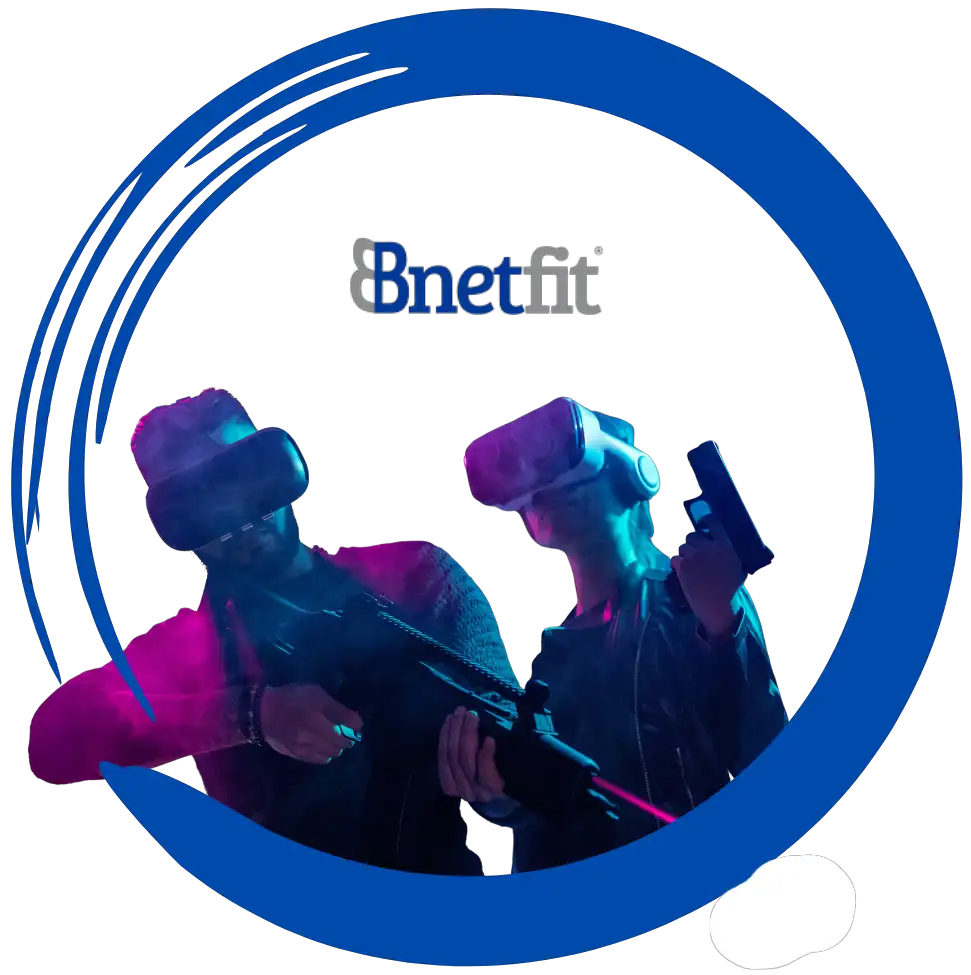
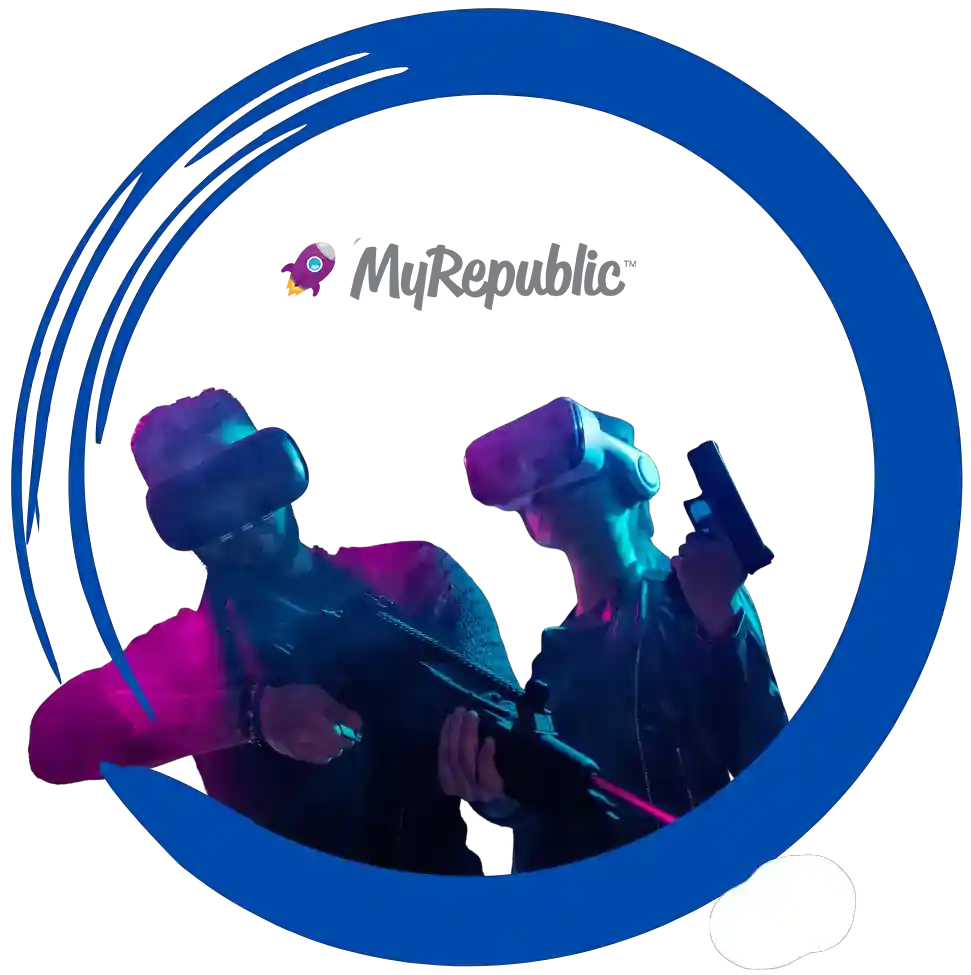
inisiasi myrep

diff --git a/components/Pricing.tsx b/components/Pricing.tsx
@@ -20,10 +20,10 @@ export default function Pricing() {
                                 className="imgpricing"
                             />
                             <div className="ml-5">
-                                <span className="spanpricing">Homelink 30</span>
+                                <span className="spanpricing">Fast 50</span>
                                 <span>
                                     <span className="spanrp">Rp&thinsp;</span>
-                                    <span className="spanhg">249rb </span>
+                                    <span className="spanhg">272rb </span>
                                 </span>
                                 <span className="spanbulan">/ bulan</span>
                             </div>
@@ -36,9 +36,7 @@ export default function Pricing() {
                                 />
                                 <span className="ml-3">
                                     Unlimited tanpa{" "}
-                                    <span className="text-black">
-                                        Kuota dan FUP
-                                    </span>
+                                    <span className="text-black">FUP</span>
                                 </span>
                             </li>
                             <li className="lipricing">
@@ -48,7 +46,7 @@ export default function Pricing() {
                                 />
                                 <span className="ml-3">
                                     Kecepatan optimal{" "}
-                                    <span className="text-black">30 Mpbs</span>
+                                    <span className="text-black">50 Mpbs</span>
                                 </span>
                             </li>
                             <li className="lipricing">
@@ -69,10 +67,8 @@ export default function Pricing() {
                                     alt="Serbu 20"
                                 />
                                 <span className="ml-3">
-                                    Biaya bulanan{" "}
-                                    <span className="text-black">
-                                        Selalu Flat
-                                    </span>{" "}
+                                    Upload dan Download{" "}
+                                    <span className="text-black">1 : 1</span>{" "}
                                 </span>
                             </li>
                         </ul>
@@ -97,11 +93,11 @@ export default function Pricing() {
                                 className="imgpricing"
                             />
                             <div className="ml-5">
-                                <span className="serbu10">Homelink 20</span>
+                                <span className="serbu10">Value 30</span>
                                 <span>
                                     <span className="rp10">Rp&thinsp;</span>
                                     <span className="spanhg text-white">
-                                        199rb{" "}
+                                        249rb{" "}
                                     </span>
                                 </span>
                                 <span className="font-medium">/ bulan</span>
@@ -115,9 +111,7 @@ export default function Pricing() {
                                 />
                                 <span className="ml-3">
                                     Unlimited tanpa{" "}
-                                    <span className="text-white">
-                                        Kuota dan FUP
-                                    </span>
+                                    <span className="text-white">FUP</span>
                                 </span>
                             </li>
                             <li className="lipricing">
@@ -127,7 +121,7 @@ export default function Pricing() {
                                 />
                                 <span className="ml-3">
                                     Kecepatan optimal{" "}
-                                    <span className="text-white">20 Mbps</span>
+                                    <span className="text-white">30 Mbps</span>
                                 </span>
                             </li>
                             <li className="flex mb-6">
@@ -148,11 +142,8 @@ export default function Pricing() {
                                     alt="Serbu 10"
                                 />
                                 <span className="ml-3">
-                                    Biaya bulanan{" "}
-                                    <span className="text-white">
-                                        {" "}
-                                        Selalu Flat
-                                    </span>{" "}
+                                    Upload dan Download{" "}
+                                    <span className="text-white">1 : 1</span>{" "}
                                 </span>
                             </li>
                         </ul>
@@ -177,10 +168,10 @@ export default function Pricing() {
                                 className="imgpricing"
                             />
                             <div className="ml-5">
-                                <span className="spanpricing">Homelink 50</span>
+                                <span className="spanpricing">Nova 100</span>
                                 <span>
                                     <span className="spanrp">Rp&thinsp;</span>
-                                    <span className="spanhg">290rb </span>
+                                    <span className="spanhg">391rb </span>
                                 </span>
                                 <span className="spanbulan">/ bulan</span>
                             </div>
@@ -193,9 +184,7 @@ export default function Pricing() {
                                 />
                                 <span className="ml-3">
                                     Unimited tanpa{" "}
-                                    <span className="text-black">
-                                        Kuota dan FUP
-                                    </span>
+                                    <span className="text-black">FUP</span>
                                 </span>
                             </li>
                             <li className="lipricing">
@@ -226,11 +215,8 @@ export default function Pricing() {
                                     alt="Serbu 30"
                                 />
                                 <span className="ml-3">
-                                    Biaya bulanan{" "}
-                                    <span className="text-white">
-                                        {" "}
-                                        Selalu Flat
-                                    </span>{" "}
+                                    Upload dan Download{" "}
+                                    <span className="text-black">1 : 1</span>{" "}
                                 </span>
                             </li>
                         </ul>

diff --git a/components/AboutSmall.tsx b/components/AboutSmall.tsx
@@ -8,14 +8,14 @@ export default function AboutSmall() {
                 <div className="div1about">
                     <div className="items-center gap-8 lg:grid lg:grid-cols-2 xl:gap-16">
                         <div className="text-gray-500 sm:text-lg">
-                            <h2 className="h2about">Wifi Bnetfit</h2>
+                            <h2 className="h2about">MyRepublic</h2>
                             <p className="mb-8 font-light lg:text-xl">
-                                Bnetfit hadir untuk memberikan solusi internet
-                                untuk keluarga indonesia dengan menawarkan
-                                pilihan harga terbaik yang didukung oleh
-                                komitmen kami dalam meningkatkan layanan
-                                jaringan untuk menghasilkan kualitas layanan
-                                internet yang lebih stabil.{" "}
+                                MyRepublic hadir untuk menjadi aset kebanggaan
+                                bangsa Indonesia dengan memberikan solusi
+                                internet dengan pilihan harga terbaik yang
+                                didukung oleh komitmen kami dalam meningkatkan
+                                layanan jaringan untuk menghasilkan kualitas
+                                layanan internet yang lebih stabil.{" "}
                             </p>
 
                             <ul role="list" className="ulabout">
@@ -74,7 +74,7 @@ export default function AboutSmall() {
                             <p className="font-light lg:text-xl">
                                 Nikmati kemudahan berlangganan dengan layanan
                                 kami. Konsultasikan kebutuhan internet anda
-                                dengan tenaga ahli dari Bnetfit dan dapatkan
+                                dengan tenaga ahli dari MyRepublic dan dapatkan
                                 promo menarik yang sesuai dengan kebutuhan anda.
                             </p>
                         </div>

diff --git a/components/Feature.tsx b/components/Feature.tsx
@@ -7,11 +7,11 @@ export default function Feature() {
             <section className="max-w-7xl mx-auto px-4 sm:px-6 lg:px-4 py-12">
                 <div className="text-center pb-12">
                     <h2 className="text-base font-bold text-indigo-600">
-                        Kenapa harus memilih Bnetfit?
+                        Kenapa harus memilih MyRepublic?
                     </h2>
                     <h1 className="font-bold text-3xl md:text-4xl lg:text-5xl font-heading text-gray-900">
                         Benefit dari{" "}
-                        <span className=" text-blue-900">Wifi Bnetfit</span>
+                        <span className=" text-blue-900">MyRepublic</span>
                     </h1>
                 </div>
                 <div className="grid grid-cols-1 sm:grid-cols-2 md:grid-cols-2 lg:grid-cols-3 gap-6">
@@ -47,11 +47,11 @@ export default function Feature() {
                         </div>
                         <div className="text-center py-8 sm:py-6">
                             <p className="text-xl text-gray-700 font-bold mb-2">
-                                Promo Bnetfit
+                                Promo MyRepublic
                             </p>
                             <p className="text-base text-gray-400 font-normal">
                                 Kemudahan berlangganan bagi semua pelanggan
-                                setia Bnetfit
+                                setia MyRepublic
                             </p>
                         </div>
                     </div>

diff --git a/components/HeroSmall.tsx b/components/HeroSmall.tsx
@@ -73,7 +73,7 @@ export default function Herosmall() {
                 >
                     <SwiperSlide>
                         <Image
-                            src="/serbubig.webp"
+                            src="/hero1.jpg"
                             alt="Promo Paket Serbu"
                             width={1920}
                             height={750}
@@ -82,7 +82,7 @@ export default function Herosmall() {
                     </SwiperSlide>
                     <SwiperSlide>
                         <Image
-                            src="/ytbig.webp"
+                            src="/hero2.jpg"
                             alt="Unlimited Streaming Youtube"
                             width={1920}
                             height={750}
@@ -90,7 +90,7 @@ export default function Herosmall() {
                     </SwiperSlide>
                     <SwiperSlide>
                         <Image
-                            src="/instalbig.webp"
+                            src="/hero3.jpg"
                             alt="Gratis Instalasi"
                             width={1920}
                             height={750}

diff --git a/components/Footer.tsx b/components/Footer.tsx
@@ -9,7 +9,9 @@ export default function Footer() {
                         <div className="text-center pt-10">
                             <h3 className="h3foot">
                                 Revolusi internet{" "}
-                                <span className="text-blue-900">Bnetfit</span>
+                                <span className=" text-blue-800">
+                                    MyRepublic
+                                </span>
                             </h3>
                             <p>
                                 {" "}
@@ -20,7 +22,7 @@ export default function Footer() {
                             </p>
                         </div>
                         <div className="div2foot">
-                            &copy; 2023 Bnetfit Corp. All rights reserved.
+                            &copy; 2023 MyRepublic Corp. All rights reserved.
                             <div className="order-1 md:order-2">
                                 <Link href="/profil" className="px-2">
                                     Profil

diff --git a/components/Exp.tsx b/components/Exp.tsx
@@ -94,14 +94,14 @@ export default function Exp() {
                                         ></path>
                                     </svg>
                                     <span className="spanexp">
-                                        Komunitas Mabar Bnetfit
+                                        Komunitas Mabar MyRepublic
                                     </span>
                                 </li>
                             </ul>
                             <p className="font-light lg:text-xl">
                                 Menyediakan pelayanan maksimal tanpa
-                                kompleksitas solusi tradisional. Pasang Bnetfit
-                                Sekarang.
+                                kompleksitas solusi tradisional. Pasang
+                                MyRepublic Sekarang.
                             </p>
                         </div>
                     </div>

diff --git a/components/Nav.tsx b/components/Nav.tsx
@@ -11,11 +11,11 @@ export const Nav = () => {
                 <div className="relative flex items-center justify-between">
                     <Link href="/" className="linky">
                         <Image
-                            src="/bnet.webp"
+                            src="/myrep.png"
                             alt="Logo Bnetfit"
-                            width={94}
+                            width={170}
                             height={29}
-                            className="py-4"
+                            className="py-3"
                         />
                     </Link>
                     <ul className="flex items-center hidden space-x-8 lg:flex">

diff --git a/components/Header.tsx b/components/Header.tsx
@@ -6,7 +6,7 @@ export default function Hero() {
             <header className="head">
                 <nav className="navy">
                     <Link href="/" className="linky">
-                        <img src="bnet.webp" alt="logo bnet" className="h-7" />
+                        <img src="myrep.png" alt="logo bnet" className="h-7" />
                     </Link>
                     <a
                         className="awa"

diff --git a/layout/layout.js b/layout/layout.js
@@ -6,7 +6,7 @@ import Image from "next/image";
 
 export default function Layout({
     path = "Home",
-    title = "Home | Pasang Wifi Bnetfit Dengan Harga Promo",
+    title = "Promo Merdeka MyRepublic - Mulai dari 249rb/bulan",
     metacontent ="Pasang wifi bnetfit harga mulai 199rb kecepatan hingga 100 Mbps. Gratis Instalasi dan biaya sewa perangkat untuk pemasangan baru.",
     children,
 }) {

diff --git a/pages/index.tsx b/pages/index.tsx
@@ -27,7 +27,7 @@ const Page: NextPageWithLayout = () => {
 
 Page.getLayout = function getLayout(page: ReactElement) {
     return (
-        <Layout title="Home | Pasang Wifi Bnetfit Dengan Harga Promo">
+        <Layout title="Promo Merdeka MyRepublic - Mulai dari 249rb/bulan">
             {page}
         </Layout>
     );
